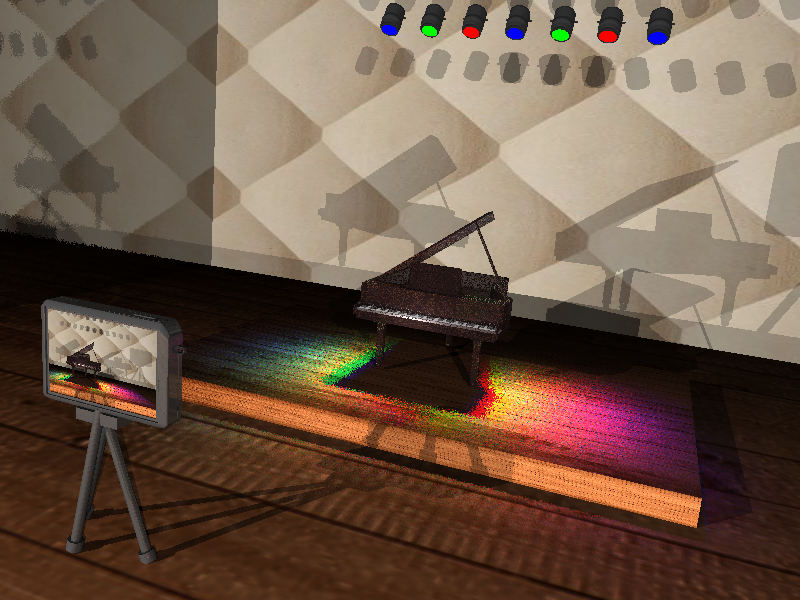
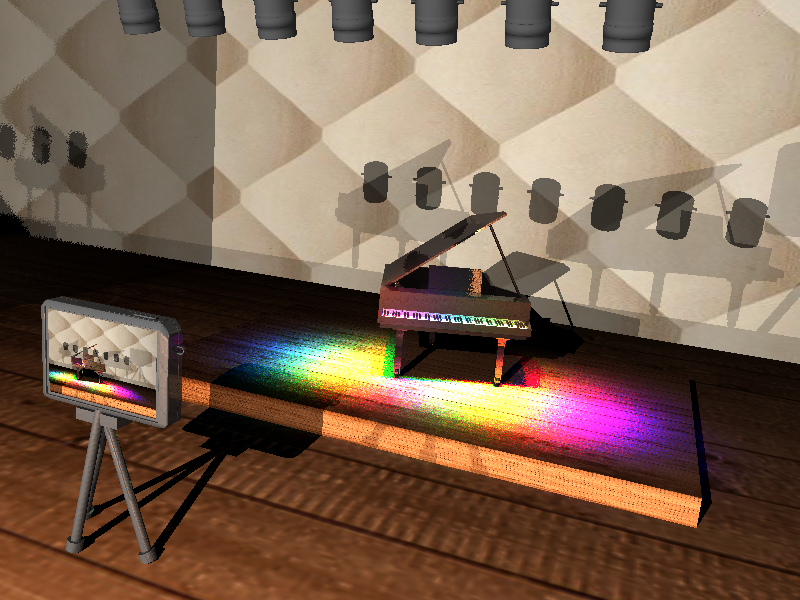
Rotated discs.

diff --git a/main/a_rendering_walls.cpp b/main/a_rendering_walls.cpp
@@ -158,12 +158,13 @@ void a_rendering_walls()
     matlib->insert(std::pair<std::string, Material*>("stage_floor_mat1", woodtex_mat)); 
     matlib->insert(std::pair<std::string, Material*>("stage_floor_mat2", woodtex_mat)); 
 
-	Texture* impureBlacktex = new ConstantTexture(RGBColor(0.08f, 0.05f, 0.05f));
+	Texture* impureBlacktex = new ConstantTexture(RGBColor(0.07f, 0.05f, 0.05f));
 	// LambertianMaterial* pianoBlackMat = new LambertianMaterial(impureBlacktex, impureBlacktex);
 
 	CombineMaterial* pianoBlackMat = new CombineMaterial();
-	pianoBlackMat->add(new LambertianMaterial(impureBlacktex, impureBlacktex), 0.5f);
-	pianoBlackMat->add(new FuzzyMirrorMaterial(2.485f, 3.433f, 0.05f), 0.5f);
+	pianoBlackMat->add(new LambertianMaterial(impureBlacktex, impureBlacktex), 0.4f);
+	pianoBlackMat->add(new PhongMaterial(impureBlacktex, 10), 0.1);
+	pianoBlackMat->add(new FuzzyMirrorMaterial(2.485f, 3.433f, 0.01f), 0.5f);
 	// pianoBlackMat->add(new GlassMaterial(1.5), 0.25f);
 
 	// pianoBlackMat->add(new GlassMaterial(1.5), 0.5);
@@ -172,8 +173,9 @@ void a_rendering_walls()
 	// LambertianMaterial* pianoWhiteMat = new LambertianMaterial(whitetex, whitetex);
 
 	CombineMaterial* pianoWhiteMat = new CombineMaterial();
-	pianoWhiteMat->add(new LambertianMaterial(whitetex, whitetex), 0.5f);
-	pianoBlackMat->add(new FuzzyMirrorMaterial(2.485f, 3.433f, 0.05f), 0.5f);
+	pianoWhiteMat->add(new LambertianMaterial(whitetex, whitetex), 0.4f);
+	pianoBlackMat->add(new PhongMaterial(impureBlacktex, 10), 0.1);
+	pianoWhiteMat->add(new FuzzyMirrorMaterial(2.485f, 3.433f, 0.05f), 0.5f);
 	// pianoWhiteMat->add(new GlassMaterial(1.5), 0.25f);
 
 	CombineMaterial* pianoGoldMat = new CombineMaterial();
@@ -379,10 +381,18 @@ void a_rendering_walls()
 	// world.light.push_back(new PointLight(b2, RGBColor::rep(pointLightInt)));
 	// world.light.push_back(new PointLight(b3, RGBColor::rep(pointLightInt)));
 	// world.light.push_back(new PointLight(b4, RGBColor::rep(pointLightInt)));
-	world.light.push_back(new PointLight(f1 - (f1 - b4).normalize(), RGBColor::rep(pointLightInt)));
-	world.light.push_back(new PointLight(f2 - (f2 - b3).normalize(), RGBColor::rep(pointLightInt)));
+
+	Point p1 = f1 - (f1 - b4).normalize();
+	Point p2 = f2 - (f2 - b3).normalize();
+	Point p3 = f3 - (f3 - b2).normalize();
+	Point p4 = f4 - (f4 - b1).normalize();
+
+	/*world.light.push_back(new PointLight(f1 - (f1 - b4).normalize(), RGBColor::rep(pointLightInt)));
+	world.light.push_back(new PointLight(f2 - (f2 - b3).normalize(), RGBColor::rep(pointLightInt)));*/
 	world.light.push_back(new PointLight(f3 - (f3 - b2).normalize(), RGBColor::rep(pointLightInt)));
 	world.light.push_back(new PointLight(f4 - (f4 - b1).normalize(), RGBColor::rep(pointLightInt)));
+
+	world.light.push_back(new PointLight((p1 + p2) * 0.5f, RGBColor::rep(pointLightInt * 2)));
 
 	// world.light.push_back(&als2);
 
@@ -408,8 +418,8 @@ void a_rendering_walls()
 		else
 			color = RGBColor(1, 0, 0);
 
-		Point currentSpotLightPoint = Point(63, 100, -70 + 16 * (i + 1)); // Point(50, 100, -70 + 16 * i);
-		Point currentPianoPoint = pianoCentre + Vector(20, 0, 16 * (i + 1));
+		Point currentSpotLightPoint = Point(23, 131, -70 + 16 * (i + 1)); // Point(50, 100, -70 + 16 * i);
+		Point currentPianoPoint = pianoCentre + Vector(100, 0, 16 * (i + 1));
 		Vector currentLightDirection = (currentPianoPoint - currentSpotLightPoint).normalize();
 
 		Instance* currentLightObj = new Instance(lightObj);
@@ -420,15 +430,19 @@ void a_rendering_walls()
 
 		ConstantTexture* currentLightTex = new ConstantTexture(color * 10000);
 		Material* currentSource = new LambertianMaterial(currentLightTex, blacktex);
-		Point discCentre = Point(35.73, 115.87, -43) + currentLightDirection * 0.5 + Vector(0, 0, 16 * i);
+		// Point discCentre = Point(35.73, 115.87, -43) + currentLightDirection * 0.5 + Vector(0, 0, 16 * i);
+		Point discCentre = Point(-62.5809021, 96.7399216, -44.2987137) + currentLightDirection * 0.5 + Vector(0, 0, 16 * i);
+
 		Disc* currentDisc = new Disc(discCentre, currentLightDirection, 3, nullptr, currentSource);
-		
+
 		AreaSpotLight* als1 = new AreaSpotLight(currentDisc, currentLightDirection, pi / 1.5, 50, color * 0.5f);
 		world.light.push_back(als1);
-		// world.light.push_back(new SpotLight(discCentre, currentLightDirection, pi / 6, 200.0f, 1000000 * color));
-		scene->add(currentDisc);
+		world.light.push_back(new SpotLight(discCentre, currentLightDirection, pi / 1.5, 50, 100000 * color));
+		// scene->add(currentDisc);
 		scene->add(currentLightObj);
 	}
+
+
 
 	scene->rebuildIndex();
 	world.scene = scene;
